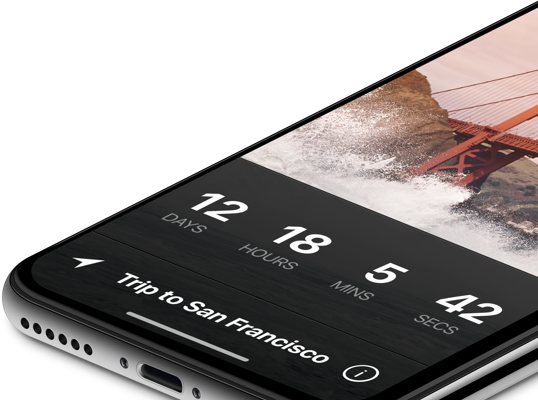
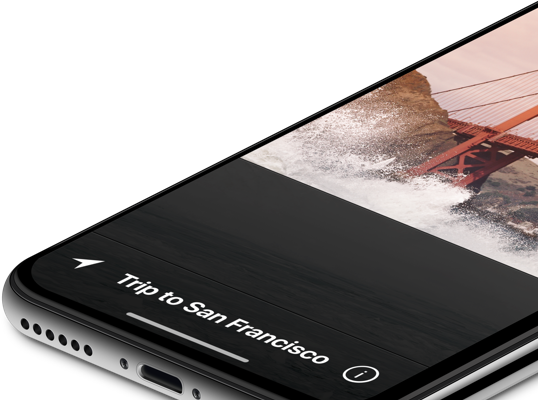
Added countdown to the Epoch tile

diff --git a/index.html b/index.html
@@ -59,6 +59,26 @@ description: "Interactive Designer from Sydney"
 			<a href="/portfolio/epoch.html">
 				<h2>Epoch</h2>
 				<h3>Countdown app</h3>
+
+				<div id="christmas" class="countdown">
+					<div class="time">
+						<span class="days largetext"></span>
+						<div class="smalltext">Days</div>
+					</div>
+					<div class="time">
+						<span class="hours largetext"></span>
+						<div class="smalltext">Hours</div>
+					</div>
+					<div class="time">
+						<span class="minutes largetext"></span>
+						<div class="smalltext">Mins</div>
+					</div>
+					<div class="time">
+						<span class="seconds largetext"></span>
+						<div class="smalltext">Secs</div>
+					</div>
+				</div>	
+				
 				<img src="../images/portfolio/promo-epoch.png" srcset="../images/portfolio/promo-epoch.png, ../images/portfolio/promo-epoch@2x.png 2x">
 			</a>
 		</div>
@@ -92,3 +112,76 @@ description: "Interactive Designer from Sydney"
 
 
 </div>
+
+<script>
+	$(document).ready(function(){
+		//COUNTDOWN
+		function getTimeRemaining(endtime) {
+	      var t = Date.parse(endtime) - Date.parse(new Date());
+	      var seconds = Math.floor((t / 1000) % 60);
+	      var minutes = Math.floor((t / 1000 / 60) % 60);
+	      var hours = Math.floor((t / (1000 * 60 * 60)) % 24);
+	      var days = Math.floor(t / (1000 * 60 * 60 * 24));
+	      return {
+	        'total': t,
+	        'days': days,
+	        'hours': hours,
+	        'minutes': minutes,
+	        'seconds': seconds
+	      };
+	    }
+	    
+	    function initializeClock(id, endtime) {
+	      var clock = document.getElementById(id);
+	      var daysSpan = clock.querySelector('.days');
+	      var hoursSpan = clock.querySelector('.hours');
+	      var minutesSpan = clock.querySelector('.minutes');
+	      var secondsSpan = clock.querySelector('.seconds');
+	    
+	      function updateClock() {
+	        var t = getTimeRemaining(endtime);
+	    
+	        daysSpan.innerHTML = t.days;
+	        hoursSpan.innerHTML = ('0' + t.hours).slice(-2);
+	        minutesSpan.innerHTML = ('0' + t.minutes).slice(-2);
+	        secondsSpan.innerHTML = ('0' + t.seconds).slice(-2);
+	    
+	        if (t.total <= 0) {
+	          clearInterval(timeinterval);
+	        }
+	      }
+	    
+	      updateClock();
+	      var timeinterval = setInterval(updateClock, 1000);
+	    }
+	
+	    function getDeadline(month, day) {
+	
+	        var monthNames = ["January", "February", "March", "April", "May", "June",
+	          "July", "August", "September", "October", "November", "December"
+	        ];
+	
+	        var currentDate = new Date();
+	        var targetYear = currentDate.getFullYear();
+	        
+	        var targetDate = new Date(targetYear + '/' + month + '/' + day);
+	        
+	        if (Number(currentDate) >= Number(targetDate)) {
+	            targetYear += 1;
+	        }
+	        
+	        return monthNames[targetDate.getMonth()] + ' ' + day + ' ' + targetYear;
+	
+	    }
+	
+	    var birthdayDeadline = getDeadline('01', '06') // Jan 6th
+	    var christmasDeadline = getDeadline('03', '18') // Dec 25th
+	    var holidayDeadline = getDeadline('05', '16') // Apr 16th
+	        
+	    initializeClock('christmas', christmasDeadline);  
+	    initializeClock('birthday', birthdayDeadline);
+	    initializeClock('holiday', holidayDeadline);
+		
+					
+	});	
+</script>

diff --git a/_sass/_portfolio.scss b/_sass/_portfolio.scss
@@ -214,6 +214,14 @@ $highlight: #FD9F3C;
 			bottom: 0px;
 			right: 0px;
 		}
+		
+		.countdown {
+			z-index: 10;
+			position: absolute;
+			transform: rotate(23deg) scale(1.35) skew(-40deg);
+			bottom: 112px;
+			right: 83px;
+		}
 	}
 	
 	.aptapro {
